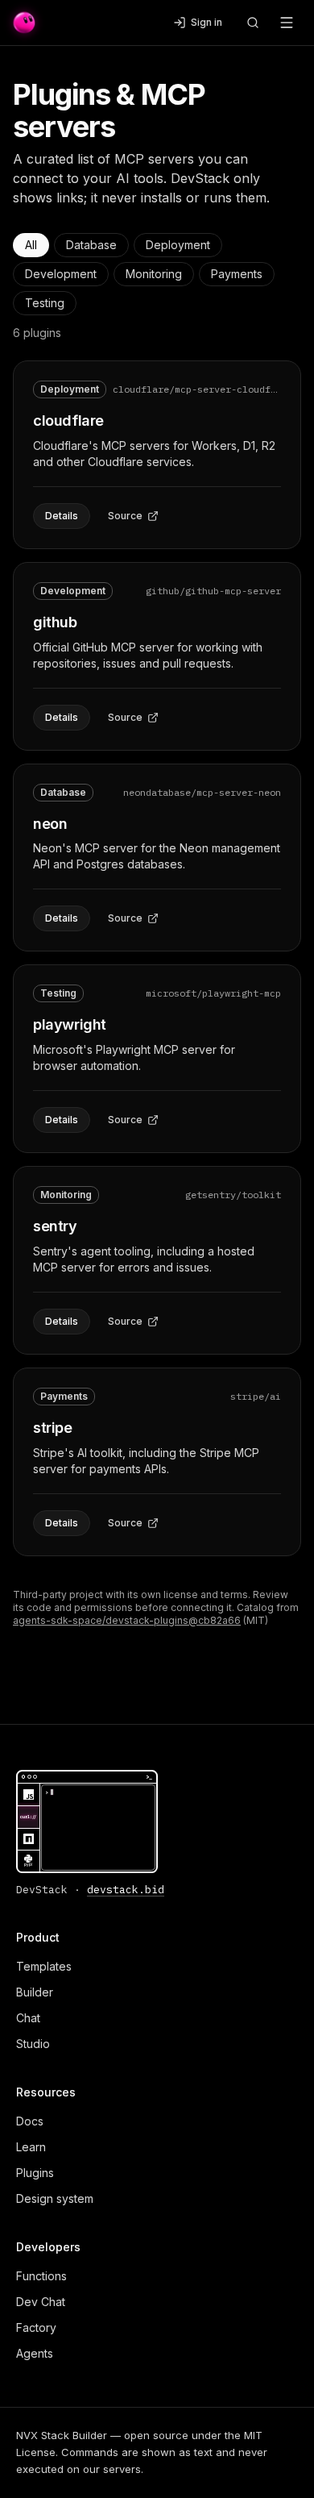
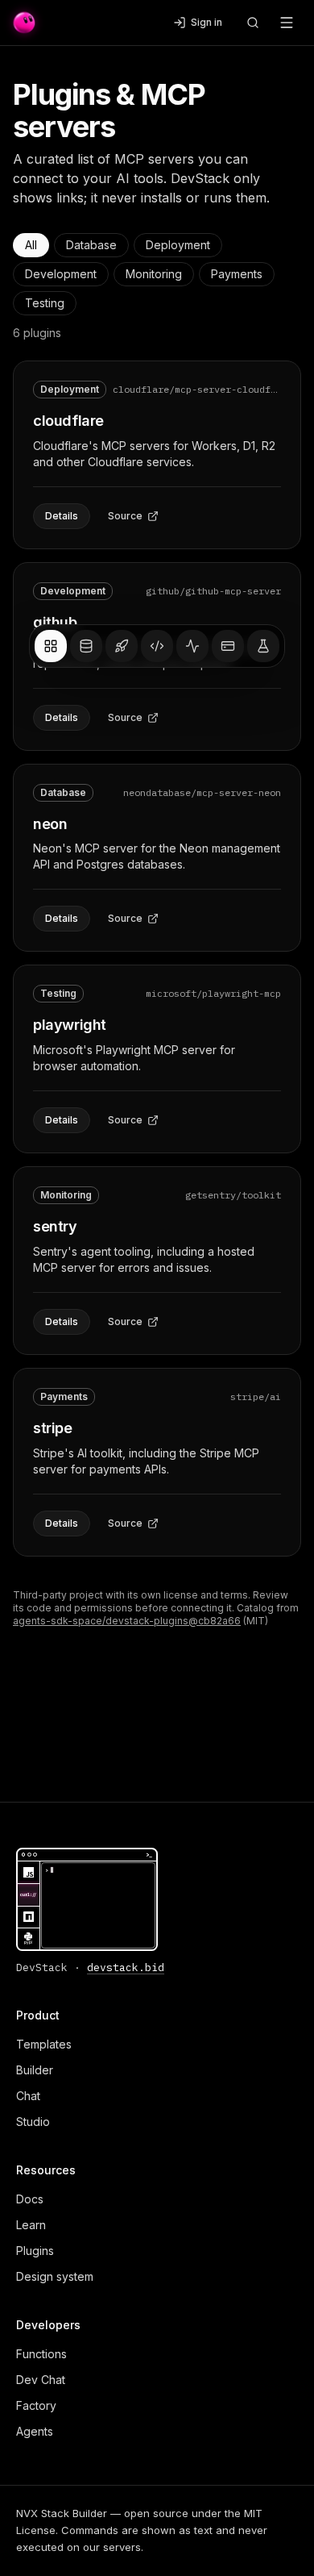
feat(ui): floating category dock on /plugins, Spinner ring/dots variants for loading states; record 21st.dev inspiration refs

diff --git a/src/components/plugins/category-dock.tsx b/src/components/plugins/category-dock.tsx
@@ -1,0 +1,63 @@
+"use client";
+
+import { Activity, Code2, CreditCard, Database, FlaskConical, LayoutGrid, Palette, Rocket, Sparkles, Zap, type LucideIcon } from "lucide-react";
+import { PLUGIN_CATEGORY_LABELS } from "@/lib/i18n";
+import { cn } from "@/components/ui";
+import { useLang } from "@/components/prefs";
+
+const ICONS: Record<string, LucideIcon> = {
+  all: LayoutGrid,
+  development: Code2,
+  deployment: Rocket,
+  database: Database,
+  monitoring: Activity,
+  testing: FlaskConical,
+  payments: CreditCard,
+  productivity: Zap,
+  design: Palette,
+  ai: Sparkles,
+};
+
+/**
+ * Floating category dock for /plugins. Our own monochrome design, inspired by the
+ * "floating dock" pattern (see docs/design/ui-ux-revamp-plan.md, design references).
+ * Each item is a real toggle button with a visible label on hover/focus; the hover lift
+ * is CSS-only and is disabled under prefers-reduced-motion.
+ */
+export function CategoryDock({ categories, value, onChange }: { categories: readonly string[]; value: string; onChange: (c: string) => void }) {
+  const { lang, t } = useLang();
+  const items = ["all", ...categories];
+  return (
+    <nav aria-label={t("plugins.dock")} className="pointer-events-none fixed inset-x-0 bottom-4 z-30 flex justify-center px-4 pb-[env(safe-area-inset-bottom)]">
+      <ul className="pointer-events-auto flex max-w-full items-end gap-1 overflow-x-auto rounded-2xl border border-border bg-bg/85 p-1.5 shadow-lg backdrop-blur supports-[backdrop-filter]:bg-bg/70">
+        {items.map((c) => {
+          const Icon = ICONS[c] ?? LayoutGrid;
+          const label = c === "all" ? t("plugins.all") : (PLUGIN_CATEGORY_LABELS[c]?.[lang] ?? c);
+          const active = value === c;
+          return (
+            <li key={c} className="group relative">
+              <button
+                type="button"
+                aria-pressed={active}
+                aria-label={label}
+                onClick={() => onChange(c)}
+                className={cn(
+                  "focus-ring motion-fast grid h-10 w-10 place-items-center rounded-xl motion-safe:transition-transform motion-safe:group-hover:-translate-y-1 motion-safe:group-hover:scale-110",
+                  active ? "bg-fg text-bg" : "bg-surface-2 text-muted hover:text-fg"
+                )}
+              >
+                <Icon className="h-[18px] w-[18px]" strokeWidth={1.75} aria-hidden />
+              </button>
+              <span
+                aria-hidden
+                className="pointer-events-none absolute -top-8 left-1/2 hidden -translate-x-1/2 whitespace-nowrap rounded-md border border-border bg-bg px-2 py-0.5 text-xs text-fg group-focus-within:block group-hover:block"
+              >
+                {label}
+              </span>
+            </li>
+          );
+        })}
+      </ul>
+    </nav>
+  );
+}

diff --git a/src/components/login-form.tsx b/src/components/login-form.tsx
@@ -1,6 +1,7 @@
 "use client";
 
-import { buttonClasses, Field, Input } from "@/components/ui";
+import { useState } from "react";
+import { buttonClasses, Field, Input, Spinner } from "@/components/ui";
 import type { DictKey } from "@/lib/i18n";
 import { useLang } from "./prefs";
 
@@ -28,6 +29,7 @@ function notice(auth: string, provider: string): { title: DictKey; body: DictKey
 export function LoginForm({ next, auth, provider }: { next: string; auth: string; provider: string }) {
   const { t } = useLang();
   const alert = notice(auth, provider);
+  const [pending, setPending] = useState<string | null>(null);
   return (
     <div className="mx-auto w-full max-w-md px-4 py-10 sm:py-16">
       <h1 className="text-3xl font-semibold tracking-tight text-fg">{t("auth.title")}</h1>
@@ -48,7 +50,16 @@ export function LoginForm({ next, auth, provider }: { next: string; auth: string
           </a>
         ))}
       </div>
-      <form method="post" action="/api/auth/password" className="mt-8 space-y-4 border-t border-border pt-6">
+      <form
+        method="post"
+        action="/api/auth/password"
+        className="mt-8 space-y-4 border-t border-border pt-6"
+        aria-busy={pending !== null}
+        onSubmit={(e) => {
+          const submitter = (e.nativeEvent as SubmitEvent).submitter as HTMLButtonElement | null;
+          setPending(submitter?.value ?? "login");
+        }}
+      >
         <h2 className="text-base font-semibold text-fg">{t("auth.ownHeading")}</h2>
         <input type="hidden" name="next" value={next} />
         <Field label={t("auth.email")}>
@@ -58,10 +69,12 @@ export function LoginForm({ next, auth, provider }: { next: string; auth: string
           {(props) => <Input {...props} name="password" type="password" autoComplete="current-password" required minLength={10} maxLength={200} />}
         </Field>
         <div className="flex flex-col gap-2 sm:flex-row">
-          <button type="submit" name="action" value="login" className={buttonClasses("primary", "md", "w-full")}>
+          <button type="submit" name="action" value="login" className={buttonClasses("primary", "md", "w-full")} aria-disabled={pending !== null}>
+            {pending === "login" && <Spinner size="md" />}
             {t("auth.signIn")}
           </button>
-          <button type="submit" name="action" value="register" className={buttonClasses("outline", "md", "w-full")}>
+          <button type="submit" name="action" value="register" className={buttonClasses("outline", "md", "w-full")} aria-disabled={pending !== null}>
+            {pending === "register" && <Spinner size="md" />}
             {t("auth.create")}
           </button>
         </div>

diff --git a/tests/plugins.test.tsx b/tests/plugins.test.tsx
@@ -1,5 +1,5 @@
 // @vitest-environment jsdom
-import { render, screen } from "@testing-library/react";
+import { render, screen, within } from "@testing-library/react";
 import userEvent from "@testing-library/user-event";
 import { describe, expect, it } from "vitest";
 import PluginsPage from "@/app/plugins/page";
@@ -34,8 +34,13 @@ describe("plugin catalog", () => {
     render(<PluginsPage />);
     expect(screen.getAllByRole("article")).toHaveLength(PLUGINS.length);
     const cat = PLUGINS[0].category;
-    await user.click(screen.getByRole("button", { name: new RegExp(`^${cat}$`, "i") }));
+    await user.click(screen.getAllByRole("button", { name: new RegExp(`^${cat}$`, "i") })[0]);
     expect(screen.getAllByRole("article")).toHaveLength(PLUGINS.filter((p) => p.category === cat).length);
+    // floating dock mirrors the same state and can switch back
+    const dock = within(screen.getByRole("navigation", { name: "Plugin categories" }));
+    expect(dock.getByRole("button", { name: new RegExp(`^${cat}$`, "i") }).getAttribute("aria-pressed")).toBe("true");
+    await user.click(dock.getByRole("button", { name: "All" }));
+    expect(screen.getAllByRole("article")).toHaveLength(PLUGINS.length);
     for (const a of screen.getAllByRole("link", { name: /Source/ })) {
       expect(a.getAttribute("rel")).toContain("noopener");
       expect(a.getAttribute("target")).toBe("_blank");
@@ -53,5 +58,14 @@ describe("plugin catalog", () => {
     const urls = sitemap().map((e) => e.url);
     expect(urls.some((u) => u.endsWith("/plugins"))).toBe(true);
     for (const p of PLUGINS) expect(urls.some((u) => u.endsWith(`/plugins/${p.name}`))).toBe(true);
+  });
+});
+
+describe("Spinner", () => {
+  it("is decorative without a label and a status with one", async () => {
+    const { Spinner } = await import("@/components/ui");
+    const { container } = render(<><Spinner /><Spinner variant="dots" label="Thinking" /></>);
+    expect(container.querySelector('[data-spinner="ring"]')?.getAttribute("aria-hidden")).toBe("true");
+    expect(screen.getByRole("status", { name: "Thinking" }).getAttribute("data-spinner")).toBe("dots");
   });
 });

diff --git a/src/components/ui/skeleton.tsx b/src/components/ui/skeleton.tsx
@@ -5,11 +5,38 @@ export function Skeleton({ className }: { className?: string }) {
   return <div aria-hidden className={cn("animate-pulse rounded-md bg-surface-3", className)} />;
 }
 
-export function Spinner({ className, label }: { className?: string; label?: string }) {
+const SPINNER_SIZES = { sm: "h-3.5 w-3.5", md: "h-4 w-4", lg: "h-6 w-6" } as const;
+
+/**
+ * Monochrome loading indicator in `currentColor`. `ring` for buttons and inline status,
+ * `dots` for conversational waits (chat). With `label` it is announced (role=status);
+ * without, it is decorative. Motion stops under prefers-reduced-motion (globals.css).
+ */
+export function Spinner({
+  className,
+  label,
+  size,
+  variant = "ring",
+}: {
+  className?: string;
+  label?: string;
+  size?: keyof typeof SPINNER_SIZES;
+  variant?: "ring" | "dots";
+}) {
+  const a11y = label ? ({ role: "status", "aria-label": label } as const) : ({ "aria-hidden": true } as const);
+  if (variant === "dots") {
+    return (
+      <span {...a11y} data-spinner="dots" className={cn("inline-flex items-center gap-1", className)}>
+        {[0, 150, 300].map((d) => (
+          <span key={d} className="h-1.5 w-1.5 animate-pulse rounded-full bg-current" style={{ animationDelay: `${d}ms` }} />
+        ))}
+      </span>
+    );
+  }
   return (
-    <svg viewBox="0 0 24 24" className={cn("animate-spin", className)} role={label ? "img" : undefined} aria-label={label} aria-hidden={label ? undefined : true}>
-      <circle cx="12" cy="12" r="9" fill="none" stroke="currentColor" strokeOpacity="0.25" strokeWidth="3" />
-      <path d="M21 12a9 9 0 0 0-9-9" fill="none" stroke="currentColor" strokeWidth="3" strokeLinecap="round" />
+    <svg {...a11y} viewBox="0 0 24 24" data-spinner="ring" className={cn("shrink-0 animate-spin", size && SPINNER_SIZES[size], className)}>
+      <circle cx="12" cy="12" r="9" fill="none" stroke="currentColor" strokeOpacity="0.2" strokeWidth="2.5" />
+      <path d="M21 12a9 9 0 0 0-9-9" fill="none" stroke="currentColor" strokeWidth="2.5" strokeLinecap="round" />
     </svg>
   );
 }

diff --git a/src/components/plugins/plugin-catalog.tsx b/src/components/plugins/plugin-catalog.tsx
@@ -5,6 +5,7 @@ import { PLUGIN_CATEGORY_LABELS } from "@/lib/i18n";
 import { PLUGIN_CATEGORIES, PLUGIN_SOURCE, PLUGINS } from "@/lib/plugins/catalog";
 import { cn } from "@/components/ui";
 import { useLang } from "@/components/prefs";
+import { CategoryDock } from "./category-dock";
 import { PluginCard } from "./plugin-card";
 
 export function PluginCatalog() {
@@ -12,7 +13,7 @@ export function PluginCatalog() {
   const [category, setCategory] = useState("all");
   const filtered = category === "all" ? PLUGINS : PLUGINS.filter((p) => p.category === category);
   return (
-    <div>
+    <div className="pb-24">
       <div role="group" aria-label="Category" className="flex flex-wrap gap-1.5">
         {["all", ...PLUGIN_CATEGORIES].map((c) => (
           <button
@@ -46,6 +47,7 @@ export function PluginCatalog() {
         </a>{" "}
         ({PLUGIN_SOURCE.license})
       </p>
+      <CategoryDock categories={PLUGIN_CATEGORIES} value={category} onChange={setCategory} />
     </div>
   );
 }

diff --git a/src/components/home/live-example.tsx b/src/components/home/live-example.tsx
@@ -3,7 +3,7 @@
 import dynamic from "next/dynamic";
 import { useEffect, useRef, useState } from "react";
 import { useDarkMode, useLang } from "@/components/prefs";
-import { buttonClasses } from "@/components/ui";
+import { buttonClasses, Spinner } from "@/components/ui";
 import { APP_TSX } from "./sandbox-files";
 
 /**
@@ -13,7 +13,14 @@ import { APP_TSX } from "./sandbox-files";
  * The code runs in a cross-origin *.codesandbox.io iframe in the visitor's browser,
  * never on our server. CSP: docs/architecture/api-hardening.md.
  */
-const LiveEditor = dynamic(() => import("./live-editor"), { ssr: false });
+const LiveEditor = dynamic(() => import("./live-editor"), {
+  ssr: false,
+  loading: () => (
+    <div className="flex h-full min-h-[34rem] items-center justify-center gap-2 text-sm text-muted md:min-h-[26.5rem]">
+      <Spinner size="md" label="Loading live editor" /> Loading live editor…
+    </div>
+  ),
+});
 
 export function LiveExample() {
   const { t } = useLang();

diff --git a/src/lib/i18n.ts b/src/lib/i18n.ts
@@ -527,6 +527,7 @@ const dict = {
   "nav.plugins": { en: "Plugins", th: "ปลั๊กอิน" },
   "plugins.title": { en: "Plugins & MCP servers", th: "ปลั๊กอินและ MCP server" },
   "plugins.subtitle": { en: "A curated list of MCP servers you can connect to your AI tools. DevStack only shows links; it never installs or runs them.", th: "รายการ MCP server ที่เชื่อมกับเครื่องมือ AI ของคุณได้ DevStack แสดงเฉพาะลิงก์ ไม่ติดตั้งหรือรันให้" },
+  "plugins.dock": { en: "Plugin categories", th: "หมวดปลั๊กอิน" },
   "plugins.all": { en: "All", th: "ทั้งหมด" },
   "plugins.count": { en: "plugins", th: "ปลั๊กอิน" },
   "plugins.source": { en: "Source", th: "ซอร์สโค้ด" },

diff --git a/src/components/chat/chat-app.tsx b/src/components/chat/chat-app.tsx
@@ -643,7 +643,7 @@ export function ChatApp({ byok, className, channel = "user" }: { byok?: ByokMode
                           <MarkdownView text={m.content} />
                         ) : m.pending ? (
                           <p className="flex items-center gap-2 text-sm text-muted">
-                            <Spinner className="h-4 w-4" /> {t(`chat.status.${status}` as const)}…
+                            <Spinner variant="dots" /> {t(`chat.status.${status}` as const)}…
                           </p>
                         ) : null}
                         {m.images.length > 0 && !m.images.every((im) => m.content.includes(im.url)) && (

diff --git a/docs/design/ui-ux-revamp-plan.md b/docs/design/ui-ux-revamp-plan.md
@@ -298,3 +298,17 @@ header มีลิงก์และปุ่ม 20 ชิ้นบนทุก
 - **หน้าแรก**: ช่อง `data-slot="howto-video"` ใต้หัวข้อสามขั้นตอน (สัดส่วน 16:9) สำหรับวิดีโอสั้นประมาณ 30 วินาที ตอนนี้ยังเป็นข้อความ "เร็ว ๆ นี้"
 - **วิดีโอแบบละเอียด**: จะไปอยู่ใน docs หน้า [เริ่มต้นใช้งาน](../user-guide/getting-started.md) ไม่ใส่บนหน้าแรก
 - ไฟล์วิดีโอควรอยู่ใน `public/` ของเราเอง (CSP `media-src 'self'`) ถ้าจะฝังจาก YouTube หรือที่อื่นต้องแก้ `frame-src` และอัปเดต docs นี้กับ api-hardening ก่อน
+
+## 15. แหล่งอ้างอิงดีไซน์จากเจ้าของ (inspiration only)
+
+เจ้าของส่งลิงก์ 21st.dev ต่อไปนี้มาเป็น **แรงบันดาลใจเท่านั้น** เราออกแบบและเขียนโค้ดเองทั้งหมดด้วย NVX UI และ semantic token แบบขาวดำ (phase 0-2) **ไม่ได้คัดลอกโค้ด** ไม่ได้เรียก `get_component` และไม่ได้ติดตั้ง package ของ 21st.dev หรือ shadcn registry จึงไม่มีผลต่อ licence ตาม AGENTS.md ข้อ 9
+
+The owner shared these 21st.dev links as inspiration only. We redesigned everything ourselves with NVX UI and monochrome tokens. No code was copied, `get_component` was not called and nothing was installed.
+
+| Reference (owner link) | What we took as an idea | Our implementation | Used in |
+|---|---|---|---|
+| Floating Dock by @manuarora700 ([21st.dev](https://21st.dev/community/components?q=Plug-i&preview=%2F%40manuarora700%2Fcomponents%2Ffloating-dock)) | A pill-shaped dock of icons fixed at the bottom of the screen that lifts on hover | `src/components/plugins/category-dock.tsx`: monochrome dock with `bg-bg/70` blur, `border-border`, the active item in `bg-fg text-bg`, a CSS-only lift that is off under reduced motion, real toggle buttons with `aria-pressed` and labels, and horizontal scroll on small screens | `/plugins` category quick-switch (shares state with the filter chips) |
+| @nextjsshop library ([21st.dev](https://21st.dev/@nextjsshop/library/nextjsshop)) | A clean card and grid rhythm with simple outline badges | `src/components/plugins/plugin-card.tsx` (outline category badge, mono repo slug, divided action row) | `/plugins`, `/plugins/[name]` |
+| Spinners ([21st.dev](https://21st.dev/community/components/s/spinner)) | A choice between a ring and a dots variant | `Spinner` in `src/components/ui/skeleton.tsx` (extended, not duplicated): `variant="ring" \| "dots"`, `size`, `currentColor`, `role=status` when it has a label | Sandpack loading (`home/live-example.tsx`), chat status (`chat/chat-app.tsx`, dots), login submit (`login-form.tsx`), plus the existing Button `loading`, Factory and the sandbox panel |
+
+ก่อนจะนำโค้ดจากลิงก์เหล่านี้มาใช้จริงในอนาคต ต้องตรวจสัญญาอนุญาตและขออนุมัติตามข้อ 9 ก่อน

diff --git a/CHANGELOG.md b/CHANGELOG.md
@@ -10,6 +10,8 @@ and this project adheres to [Semantic Versioning](https://semver.org/spec/v2.0.0
 ### Added
 
 - **Plugins catalog page.** `/plugins` and `/plugins/[name]` list MCP servers from [agents-sdk-space/devstack-plugins](https://github.com/agents-sdk-space/devstack-plugins) (MIT), using a snapshot pinned to commit `cb82a66` in `src/data/plugin-catalog.json`. `scripts/sync-plugin-catalog.mjs` (`npm run plugins:sync` / `plugins:check`) refreshes and validates it. The pages show metadata and links only. There is no runtime fetch, no CSP change, no new dependency and no D1 change. A footer link, TH/EN strings, sitemap entries, tests and `docs/integrations/plugins.md` are included.
+- **Floating category dock and Spinner variants.** `/plugins` has a monochrome floating dock for switching categories (`src/components/plugins/category-dock.tsx`). `Spinner` gains `size` and a `dots` variant and is now used for the Sandpack loading state, chat status and login submit. Our own design, inspired by 21st.dev references listed in `docs/design/ui-ux-revamp-plan.md` section 15. No code was copied.
+- **CodeSandbox CI.** `.codesandbox/ci.json` skips root install, build and packages, so only `/sandbox-examples/my-button` is generated.
 
 ### Changed
 

diff --git a/docs/integrations/plugins.md b/docs/integrations/plugins.md
@@ -8,7 +8,7 @@
 
 - Catalog repo: [agents-sdk-space/devstack-plugins](https://github.com/agents-sdk-space/devstack-plugins) (MIT), file `catalog/plugins.json`, validated by its own CI.
 - Snapshot in this repo: `src/data/plugin-catalog.json`, which records the pinned commit. The site reads it at build time; there is no runtime fetch, no CSP change and no D1 table.
-- Code: `src/lib/plugins/catalog.ts`, `src/components/plugins/*`, `src/app/plugins/page.tsx`, `src/app/plugins/[name]/page.tsx`.
+- Code: `src/lib/plugins/catalog.ts`, `src/components/plugins/*` (cards, filter chips, and the floating category dock), `src/app/plugins/page.tsx`, `src/app/plugins/[name]/page.tsx`.
 
 ## Update the catalog · อัปเดตรายการ
 
